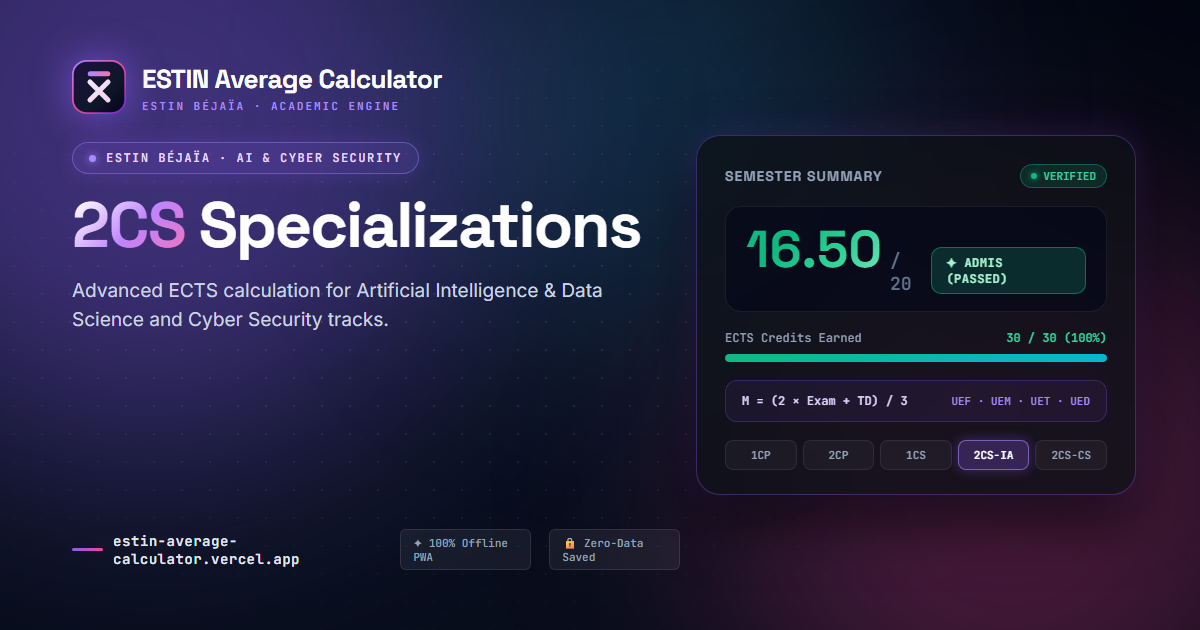
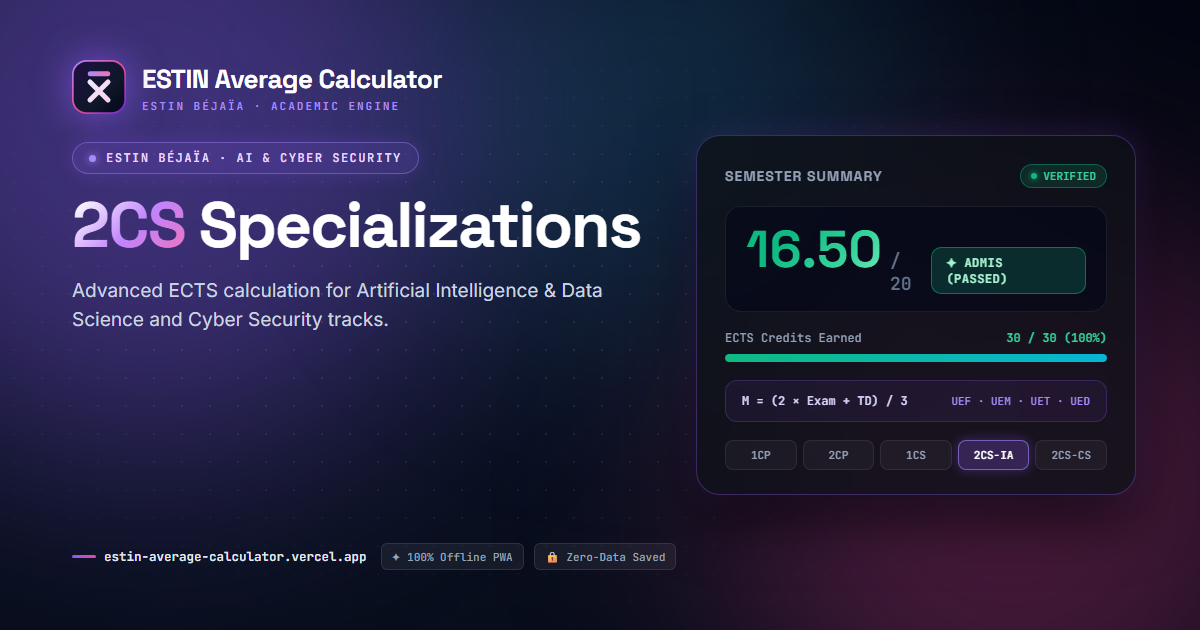
OG cards: keep the domain and feature pills on one row

Changed region(s): [[0.3392, 0.8444, 0.555, 0.9048], [0.0617, 0.8444, 0.3083, 0.9048]]

diff --git a/scripts/og/card.html b/scripts/og/card.html
@@ -200,27 +200,31 @@
   .footer-row {
     display: flex;
     align-items: center;
-    gap: 18px;
+    gap: 10px;
     margin-top: auto;
+    white-space: nowrap;
+  }
+  .footer-row > * {
+    flex-shrink: 0;
   }
   .domain-badge {
     display: flex;
     align-items: center;
-    gap: 10px;
+    gap: 8px;
+    margin-right: 4px;
     font-family: 'JetBrains Mono', monospace;
-    font-size: 14px;
+    font-size: 12.5px;
     font-weight: 600;
     color: #E2E8F0;
-    letter-spacing: 0.5px;
   }
   .domain-bar {
-    width: 36px;
+    width: 24px;
     height: 3px;
     background: linear-gradient(90deg, #8B5CF6, #EC4899);
     border-radius: 2px;
   }
   .feature-pill {
-    padding: 5px 12px;
+    padding: 5px 10px;
     border-radius: 6px;
     background: rgba(255, 255, 255, 0.06);
     border: 1px solid rgba(255, 255, 255, 0.1);
